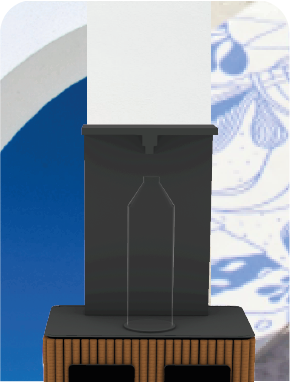
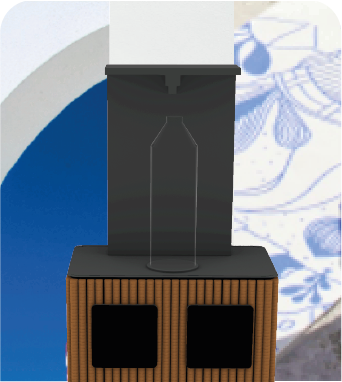
sd

diff --git a/index.html b/index.html
@@ -125,7 +125,7 @@
                         <div class="card shadow h-100">
                            <div class="card-body">
                               <a class="caja" href="paginas/aua.html">
-                                 <img src="./imagenes/portadas/portada_aua.png" alt="portadaaua">
+                                 <img class="portada" src="./imagenes/portadas/portada_aua.png" alt="portadaaua">
                                  <div class="cargadorya">AUA</div>
                                  <div class="etiqueta">GESTION</div>
                                  <hr class="lineacaja">
@@ -147,6 +147,7 @@
                         <div class="card shadow h-100">
                            <div class="card-body">
                               <a class="caja" href="paginas/cargadorya.html">
+                                 <img class="portada" src="./imagenes/portadas/portada_cargadorya.png" alt="portadacargadorya">
                                  <div class="cargadorya">CARGADOR YA</div>
                                  <div class="etiqueta">UI</div>
                                  <hr class="lineacaja">
@@ -167,6 +168,7 @@
                         <div class="card shadow h-100">
                            <div class="card-body">
                               <a class="caja" href="paginas/digram.html">
+                                 <img class="portada" src="./imagenes/portadas/portada_digram.png" alt="portadadigram">
                                  <div class="digram">DI GRAM</div>
                                  <div class="etiqueta">GRAFICO</div>
                                  <hr class="lineacaja">
@@ -188,6 +190,7 @@
                         <div class="card shadow h-100">
                            <div class="card-body">
                               <a class="caja" href="paginas/somos.html">
+                                 <img class="portada" src="./imagenes/portadas/portada_somos.png" alt="portadasomos">
                                  <div class="somos">SOMOS</div>
                                  <div class="etiqueta">GRAFICO</div>
                                  <hr class="lineacaja">
@@ -210,6 +213,7 @@
                         
                            <div class="card-body">
                               <a class="caja" href="paginas/ecorappi.html">
+                                 <img class="portada" src="./imagenes/portadas/portada_ecorappi.png" alt="portadaecorappi">
                                  <div class="ecorappi" href="paginas/ecorappi.html">ECO RAPPI</div>
                                  <div class="etiqueta">INDUSTRIAL</div>
                                  <hr class="lineacaja">
@@ -231,6 +235,7 @@
                         <div class="card shadow h-100">
                            <div class="card-body">
                               <a class="caja" href="paginas/keepgoing.html">
+                                 <img class="portada" src="./imagenes/portadas/portada_keepgoing.png" alt="portadakeepgoing">
                                  <div class="keepgoing">KEEP GOING</div>
                                  <div class="etiqueta">INDUSTRIAL</div>
                                  <hr class="lineacaja">

diff --git a/css/estilos.css b/css/estilos.css
@@ -352,6 +352,10 @@ main p {
         animation: animacioncaja 1s ease-in-out 0s 1 normal both; }
       .subtitulos .sectorproyectos .proyectosnombres .caja:active {
         color: #fafafa; }
+      .subtitulos .sectorproyectos .proyectosnombres .caja .portada {
+        width: 100%;
+        height: 100%;
+        object-fit: cover; }
       .subtitulos .sectorproyectos .proyectosnombres .caja .aua,
       .subtitulos .sectorproyectos .proyectosnombres .caja .cargadorya,
       .subtitulos .sectorproyectos .proyectosnombres .caja .digram,

diff --git a/scss/components/_main.scss b/scss/components/_main.scss
@@ -203,6 +203,12 @@ text-align: center;
         color: $fondo;
       }
 
+      .portada{
+        width: 100%;
+        height: 100%;
+        object-fit: cover
+      }
+
       .aua,
       .cargadorya,
       .digram,
